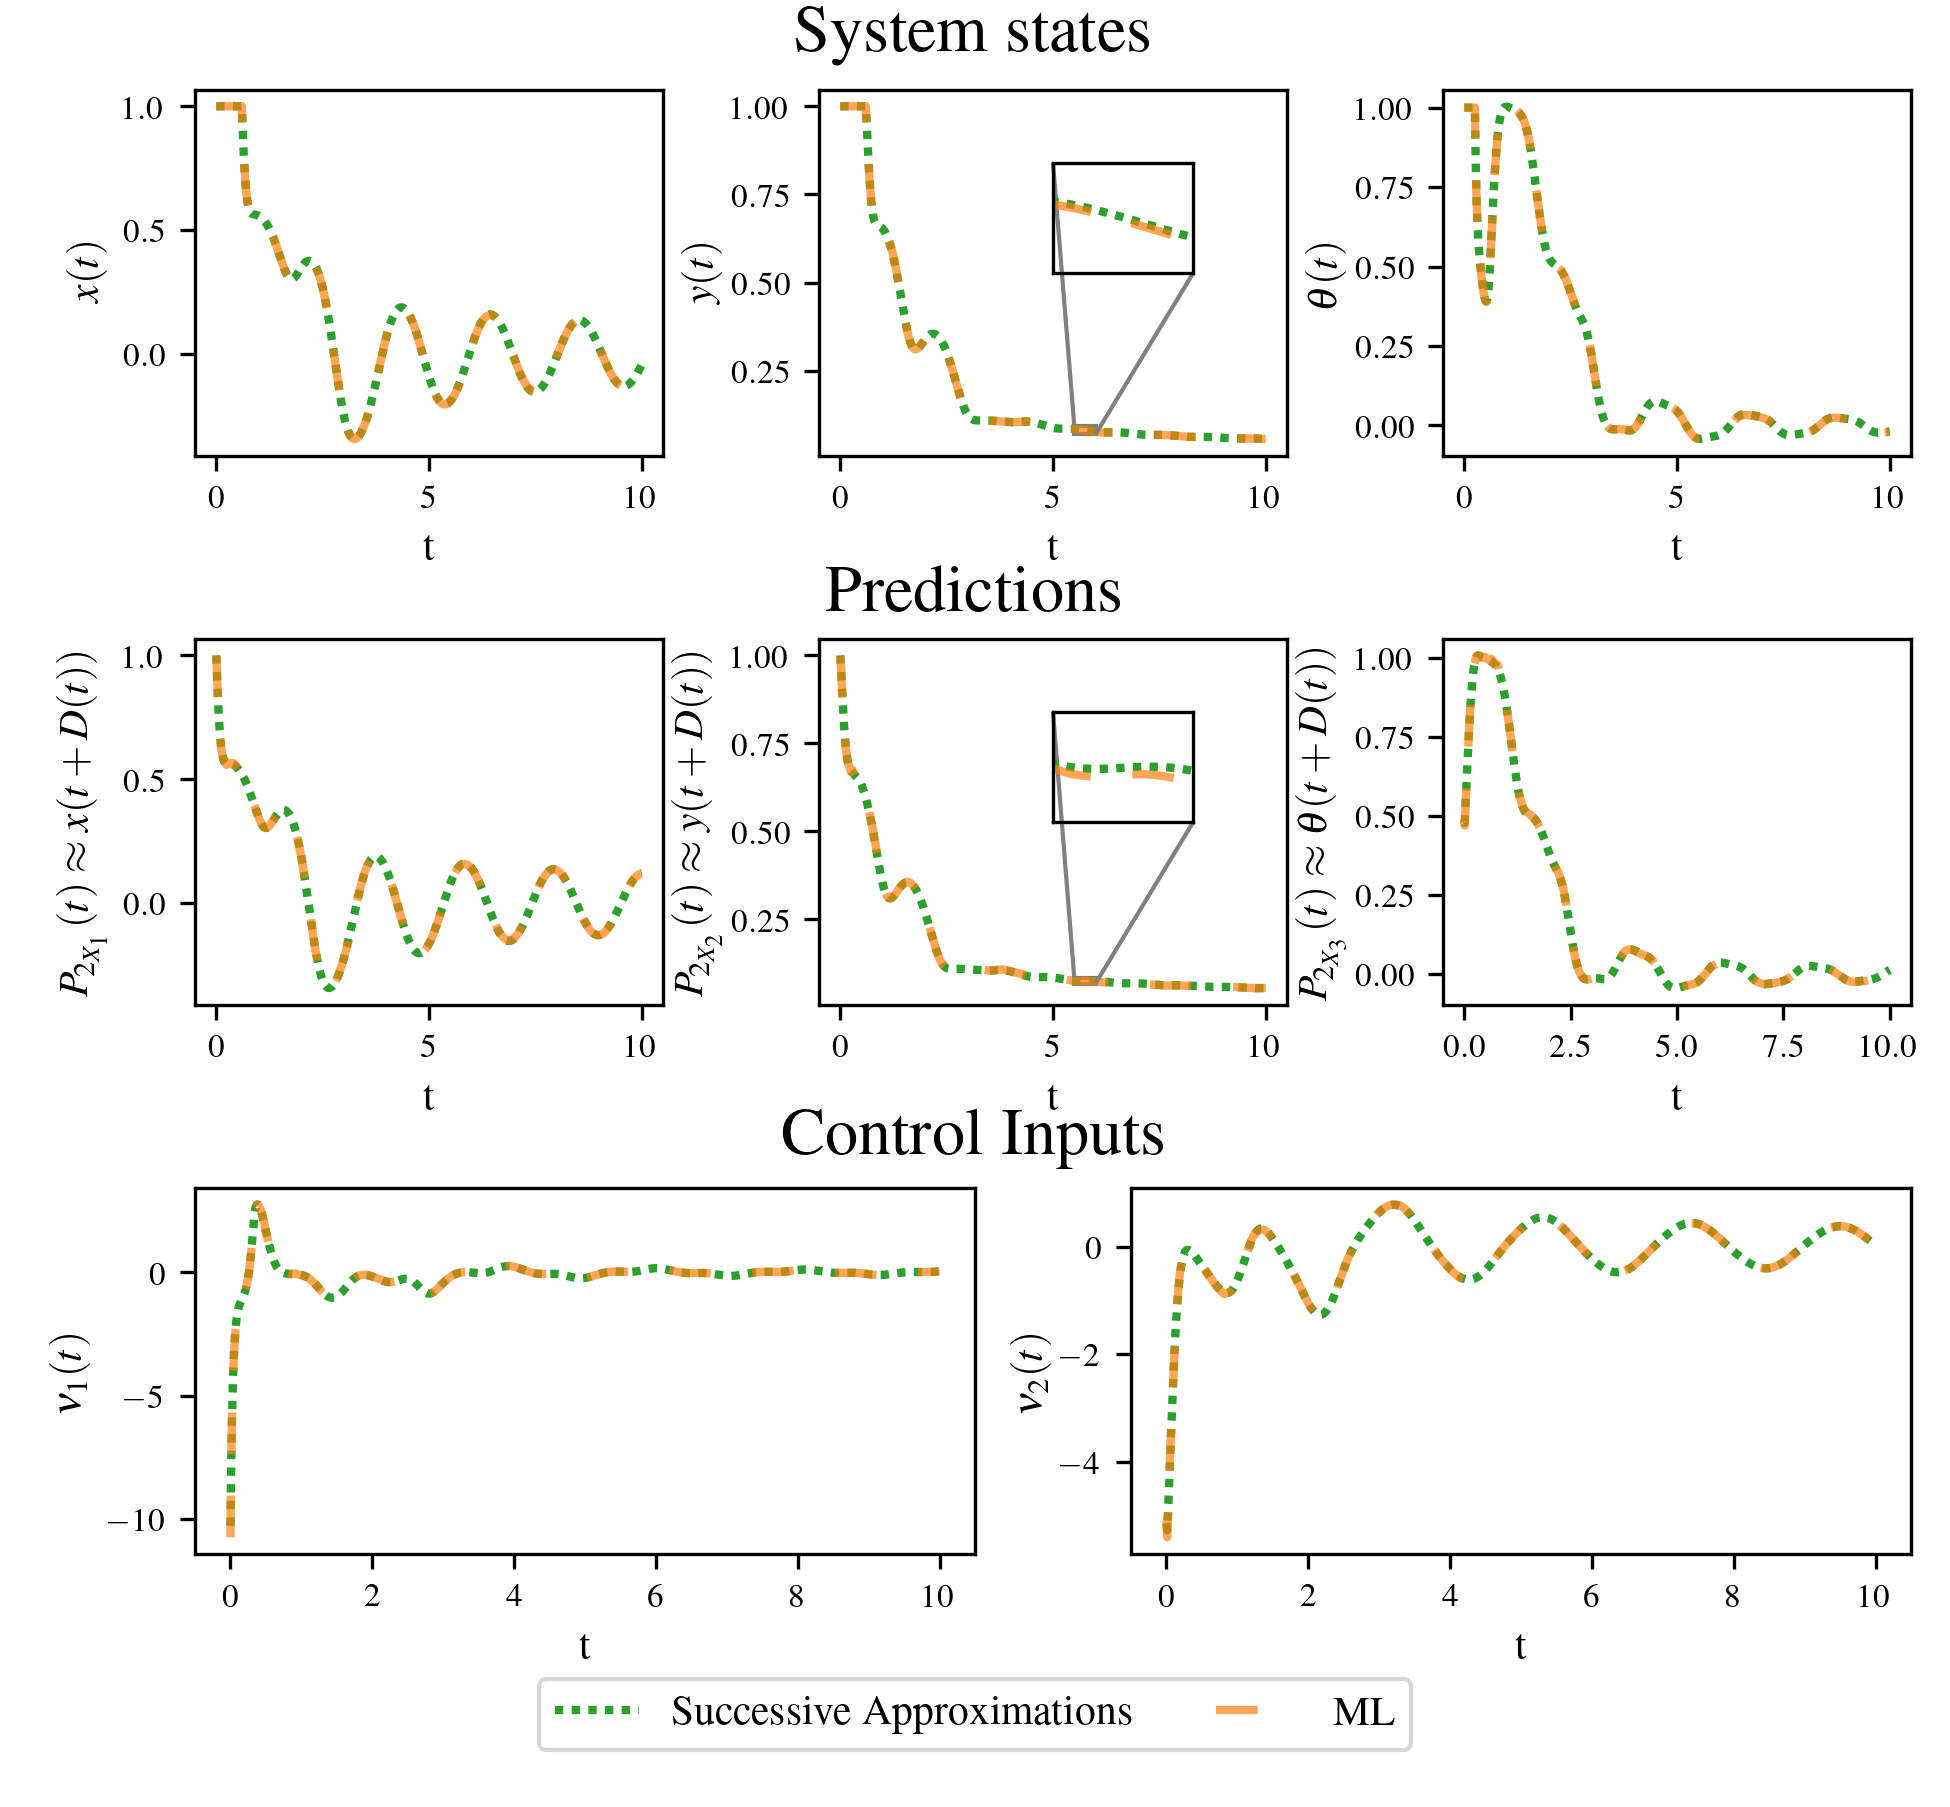
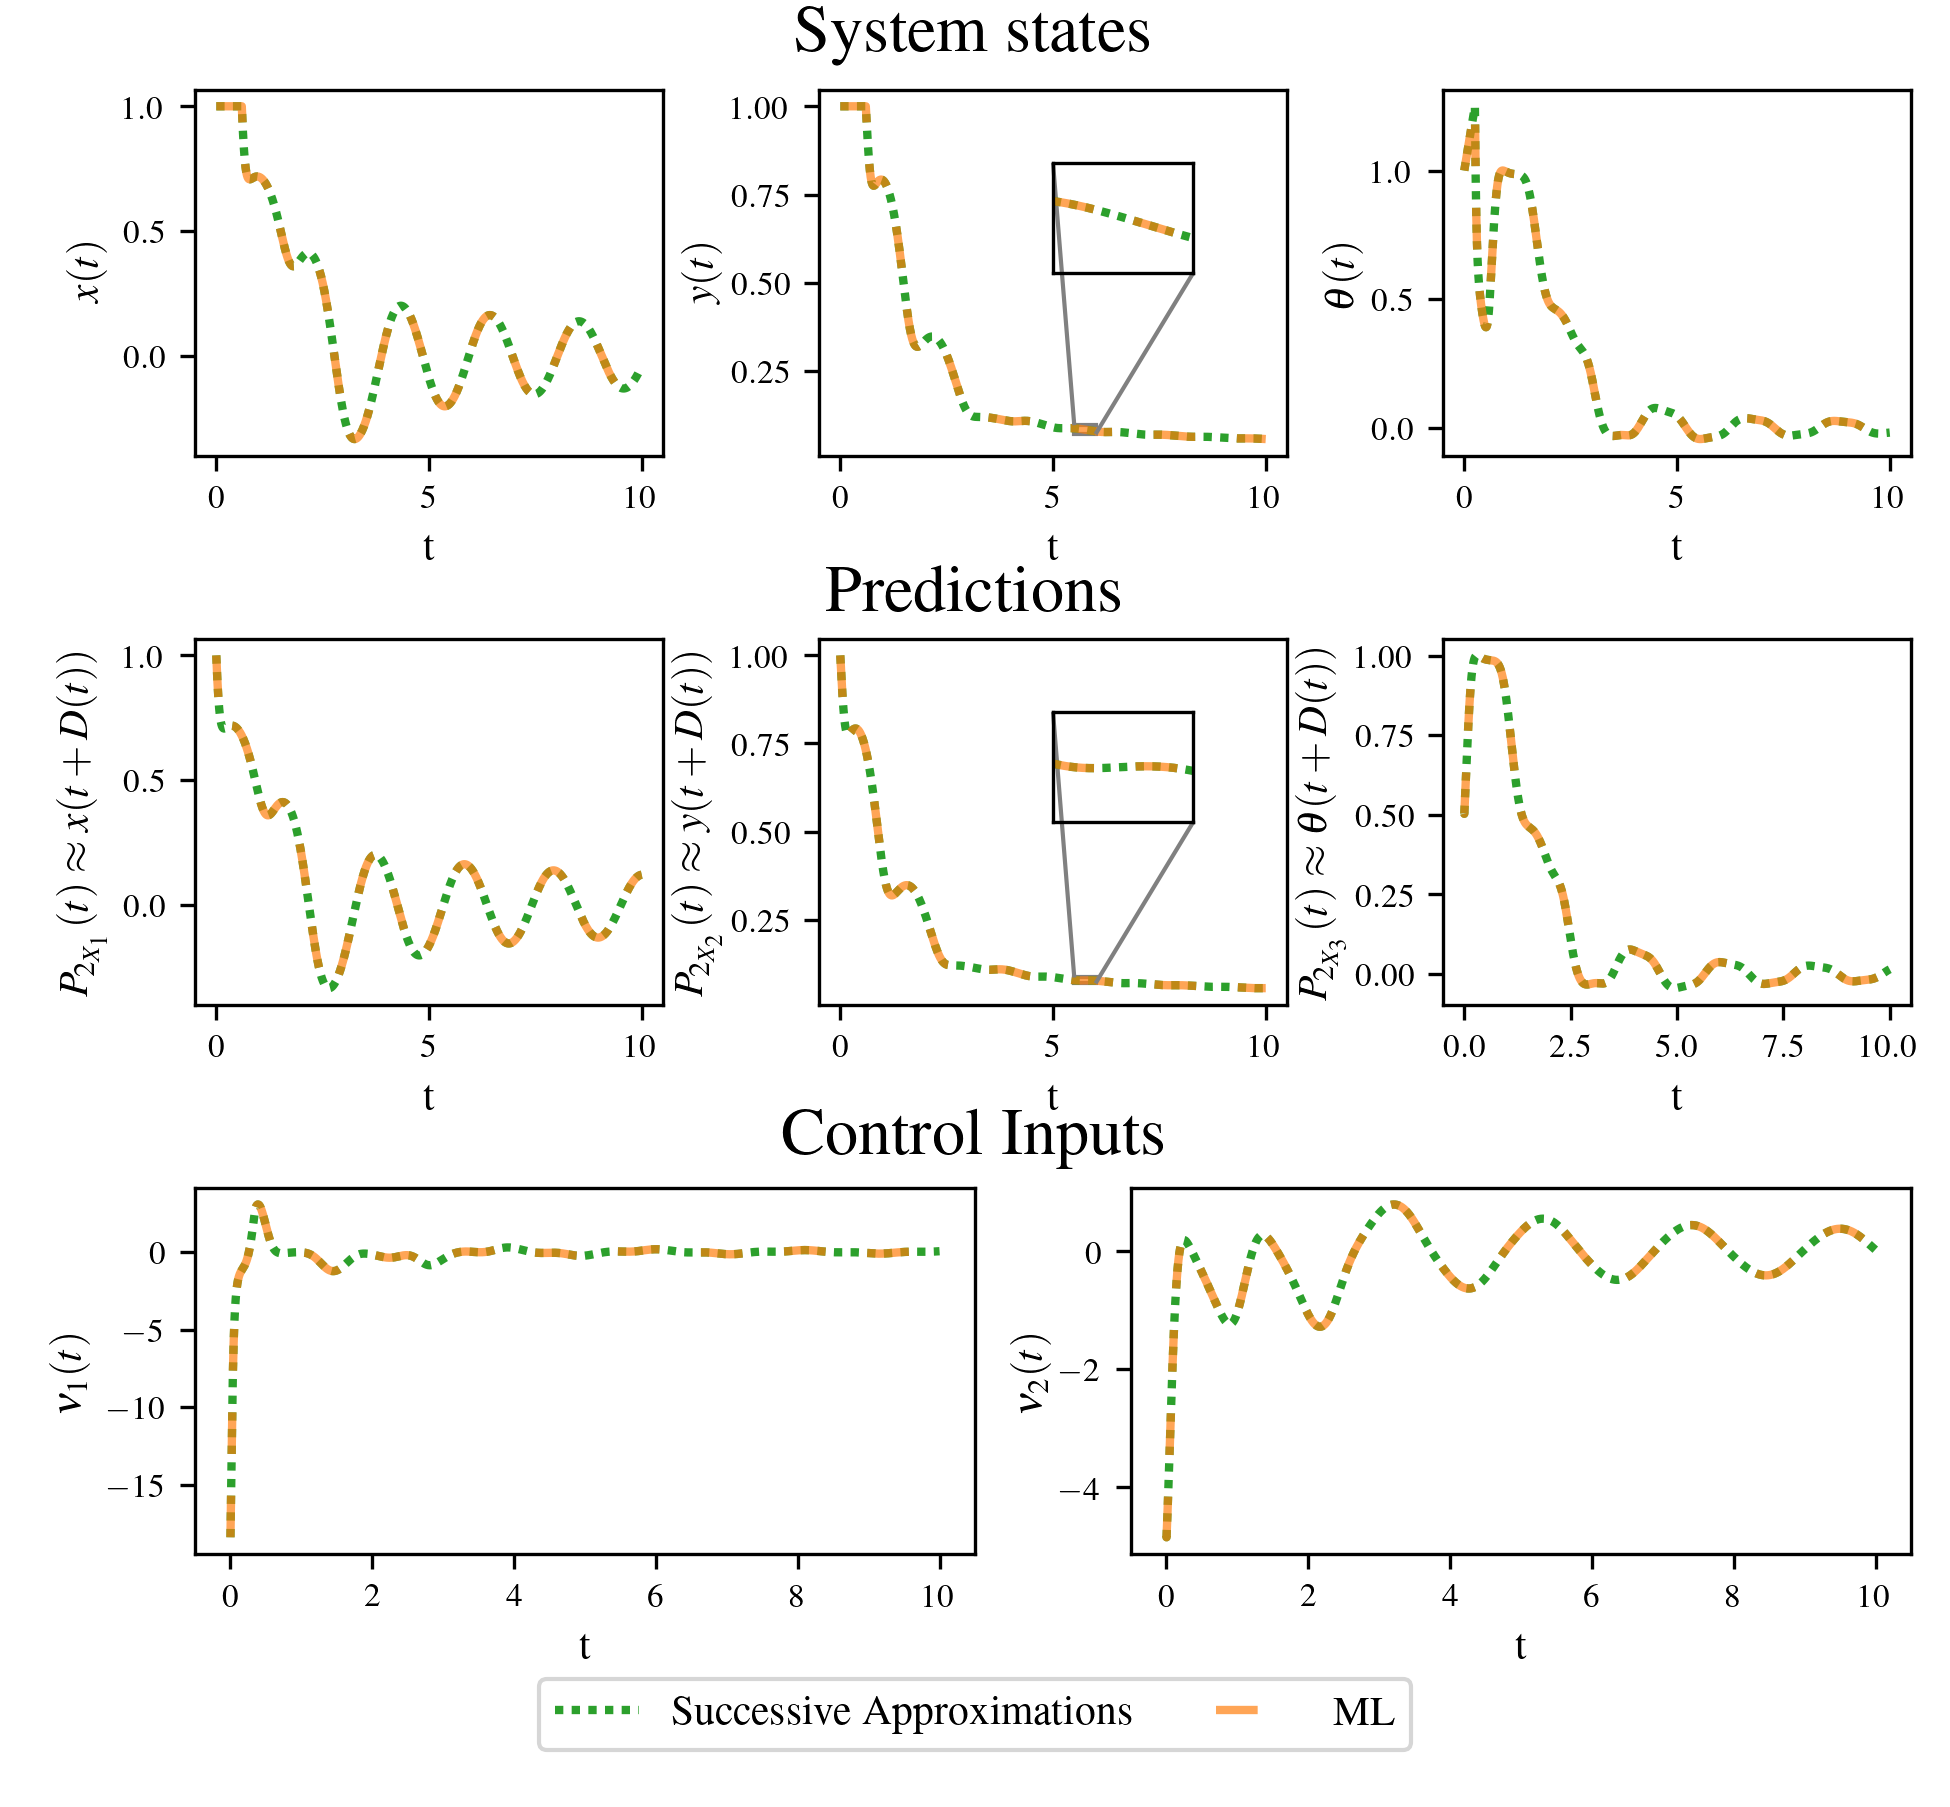
predictor implemented using np.trapezoid

diff --git a/src/system.py b/src/system.py
@@ -12,11 +12,16 @@ from models import preprocess_control_inputs
 class SimulationConfig:
     T: float
     dt: float
+    dx: float
     delays: List[float]
 
     @property
     def t(self) -> np.ndarray:
         return np.arange(0, self.T + self.dt, self.dt)
+    
+    @property
+    def x(self) -> np.ndarray:
+        return np.arange(0, 1 + self.dx, self.dx)
     
     @property
     def NDs(self) -> List[int]:
@@ -25,6 +30,10 @@ class SimulationConfig:
     @property
     def N(self) -> int:
         return len(self.t)
+    
+    @property
+    def NX(self) -> int:
+        return len(self.x)
 
 
 class System(ABC):
@@ -148,6 +157,84 @@ class System(ABC):
         return self.X, self.P, self.P_hat
     
 
+class DimensionlessSystem(ABC):
+    
+    def __init__(self, init_state, config: SimulationConfig):
+
+        assert all(config.delays[i-1] <= config.delays[i]
+            for i in range(1, len(config.delays))), \
+            "It is assumed that the order D1 <= D2 <= ... <= Dm holds!"
+
+        # Simulation config
+        self.config: SimulationConfig = config
+        self.device = torch.device('cuda' if torch.cuda.is_available() else 'cpu')
+
+        # Initialize state
+        assert len(init_state) == 3
+        self.n = len(init_state)
+        self.X = np.copy(init_state)
+
+        # Initial input history
+        # TODO: For now it is hardcoded and assumed that init_inputs are zero
+        self.m = 2
+        self.control_pdes = np.zeros((self.m, self.m * config.NX))
+
+        # TEST
+        self.control_pdes[0] = 1
+
+    @staticmethod
+    def dynamics(X, U):
+        f1 = U[1] * np.cos(X[2])
+        f2 = U[1] * np.sin(X[2])
+        f3 = U[0]
+        return np.array([f1, f2, f3])
+    
+    @staticmethod
+    def control(X, t):
+        P = X[0] * np.cos(X[2]) + X[1] * np.sin(X[2])
+        Q = X[0] * np.sin(X[2]) - X[1] * np.cos(X[2])
+        U1 = -5 * P**2 * np.cos(3*t) - P * Q * (1 + 25 * np.cos(3*t)**2) - X[2]
+        U2 = -P + 5 * Q * (np.sin(3*t) - np.cos(3*t)) + Q * U1
+        return np.array([U1, U2])
+
+    def predict(self):
+        P = np.zeros((self.m, self.config.NX, self.n))
+        for i in range(self.m):
+
+            # Initialization
+            P[i, 0] = P[i-1, -1] if i>0 else self.X
+
+            # Calculate
+            delays = self.config.delays
+            varphi = (delays[i] - delays[i-1]) if i > 0 else delays[0]
+            integral_tmp = np.zeros((self.config.NX, self.n))
+            for j in range(1, self.config.NX):
+                integral_tmp[j] = DimensionlessSystem.dynamics(P[i, j-1], self.control_pdes[:, i*self.config.NX + j-1])
+                P[i, j] = P[i, 0] + varphi*np.array([np.trapezoid(integral_tmp[0:j+1, 0], dx=self.config.dx),
+                                                    np.trapezoid(integral_tmp[0:j+1, 1], dx=self.config.dx),
+                                                    np.trapezoid(integral_tmp[0:j+1, 2], dx=self.config.dx)])
+                
+        return P[:, -1]
+
+    def step(self, U):
+
+        # Update system state
+        self.X = self.dynamics(self.X, self.control_pdes[:, 0])
+
+        # Update control history
+        dt = self.config.dt
+        dx = self.config.dx
+        delays = self.config.delays
+        NX = self.config.NX
+        for i in range(self.m):
+            for j in range(i-1, -1, -1):
+                varphi = (delays[i] - delays[i-1]) if i > 0 else delays[0]
+                self.control_pdes[i, 0:NX-1] += dt/(varphi*dx) * (self.control_pdes[i, 1:NX] - self.control_pdes[i, 0:NX-1])
+                self.control_pdes[i][:-1] = self.control_pdes[i+1][1:] if i < j-1 else U[i]
+
+        return self.X, self.P, self.P_hat
+
+
 def simulate_system(system: System):
     t = system.config.t
     NDs = system.config.NDs
@@ -170,4 +257,7 @@ def simulate_system(system: System):
 
 
 if __name__ == '__main__':
-    ...
+    init_state = np.ones(3, dtype=np.float32)
+    config = SimulationConfig(T=10,dt=0.001,dx=0.01,delays=[0.25,0.60])
+    uni = DimensionlessSystem(init_state, config)
+    print(uni.predict())
